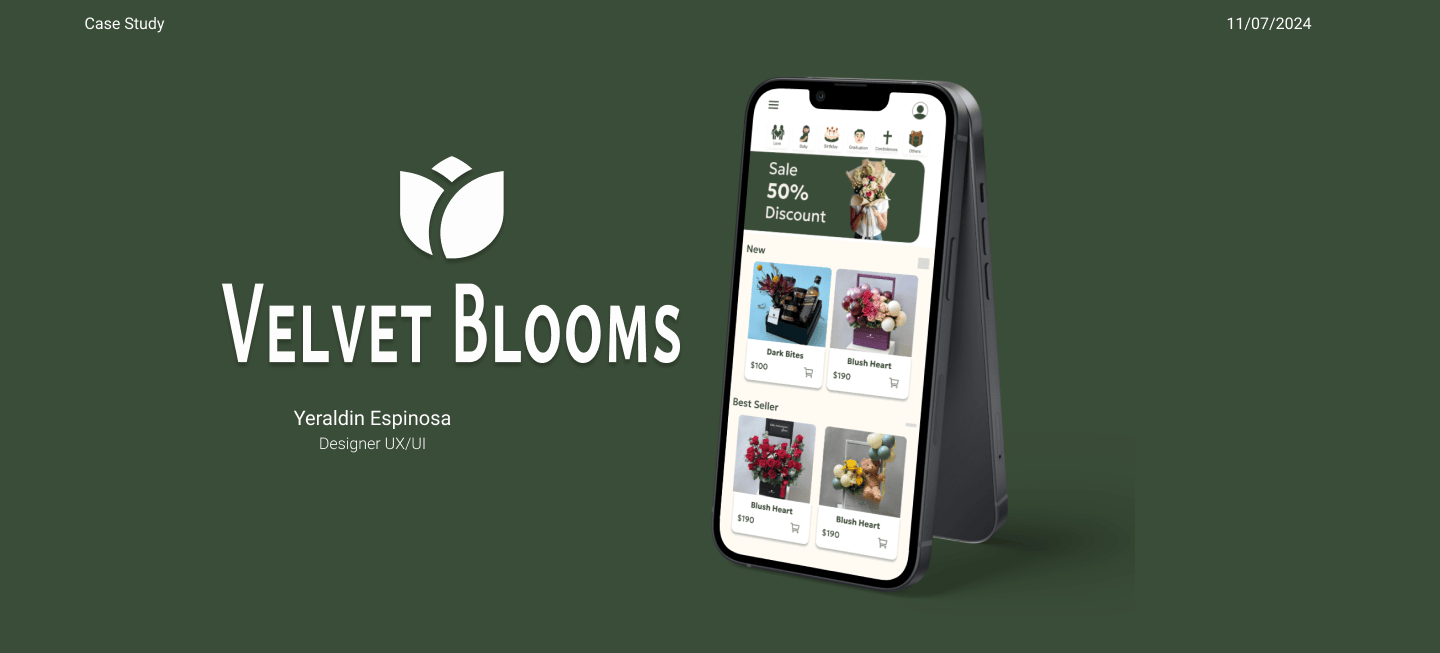
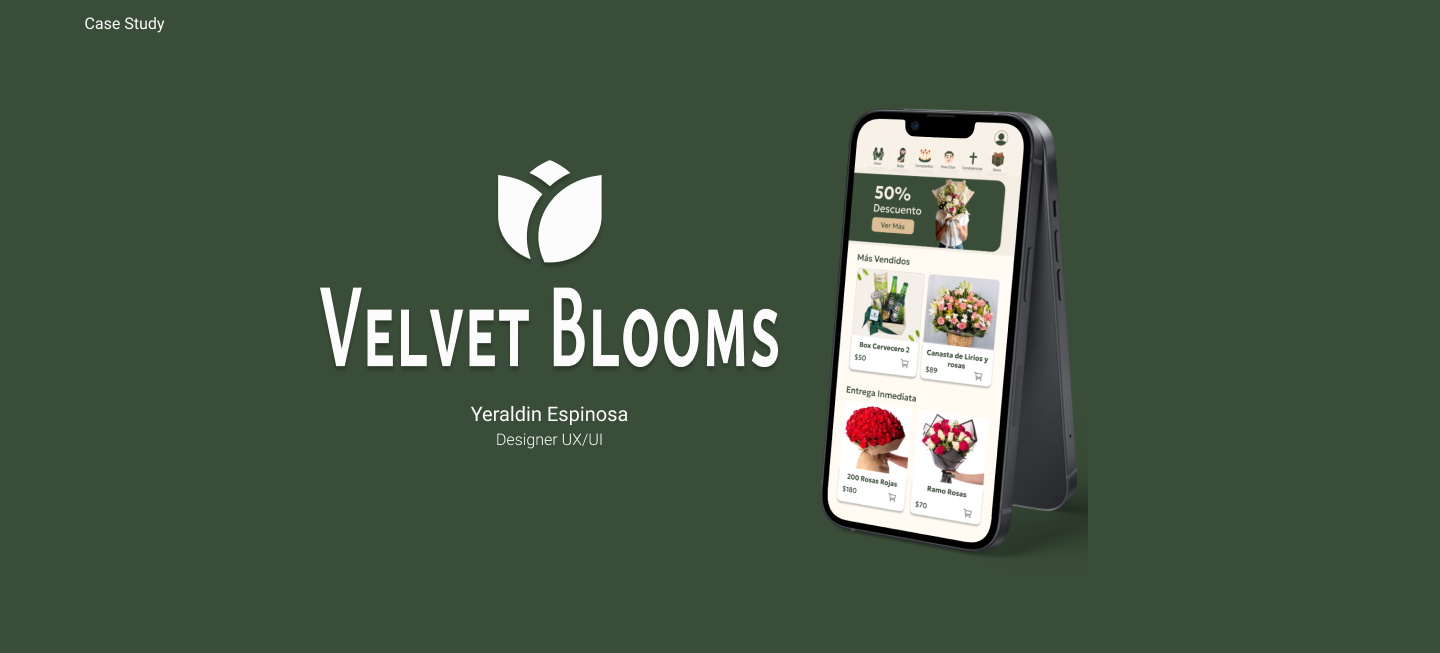
modificando imagenes

diff --git a/src/components/Proyects/VelvetBlosom.jsx b/src/components/Proyects/VelvetBlosom.jsx
@@ -5,7 +5,7 @@ const VelvetBlossom = () => {
     <>
         <section className='flex justify-center bg-velvet'>
                     <div className=''>
-                    <img className='h-96' src="/asset/Frame 1.png" alt="" />
+                    <img className='' src="/asset/Frame 1.png" alt="" />
                     </div>
         </section> 
         <section className='flex justify-center items-center py-20'>
@@ -13,7 +13,7 @@ const VelvetBlossom = () => {
             <h2 className='text-2xl font-bold pb-6'>Descripción del proyecto</h2>
             <p>Velvet Blossom es una floristería en línea diseñada para usuarios que necesitan comprar flores en situaciones inesperadas, como aniversarios olvidados o celebraciones de última hora. La plataforma ofrece una experiencia rápida y eficiente con opciones de entrega el mismo día. Los usuarios principales son personas ocupadas, típicamente hombres, que buscan soluciones inmediatas para momentos especiales.</p>
             </div>
-        <img src="/asset/iPhone 13 Pro.png" alt="" />
+        <img className="w-80" src="/public/asset/iPhone 13 Pro.png" alt="" />
             
         </section>
         <section className='flex justify-center items-center gap-10 py-20 bg-velvet px-10 lg:gap-32'>
@@ -69,12 +69,12 @@ const VelvetBlossom = () => {
         <img src="/public/asset/Frame 34.png" alt="" />
         </section>
         <section className="flex flex-col justify-center items-center py-20 bg-velvet">
-          <h2 className="text-2xl font-bold text-white pb-6">Wireframe</h2>
+          <h2 className="text-2xl font-bold text-white pb-6">Wireframe Baja Fidelidad</h2>
           <img className="" src="/asset/wireframe-baja.png" alt="" />
         </section>
         <section className="flex flex-col justify-center items-center py-20">
-          <h2 className="text-2xl font-bold text-text pb-6">Wireframe</h2>
-          <img className="" src="/asset/wireframe.png" alt="" />
+          <h2 className="text-2xl font-bold text-text pb-6">Wireframe Alta Fidelidad</h2>
+          <img className="px-60" src="/public/asset/Group 25.png" alt="" />
         </section>
         <Footer/>  
     </>
